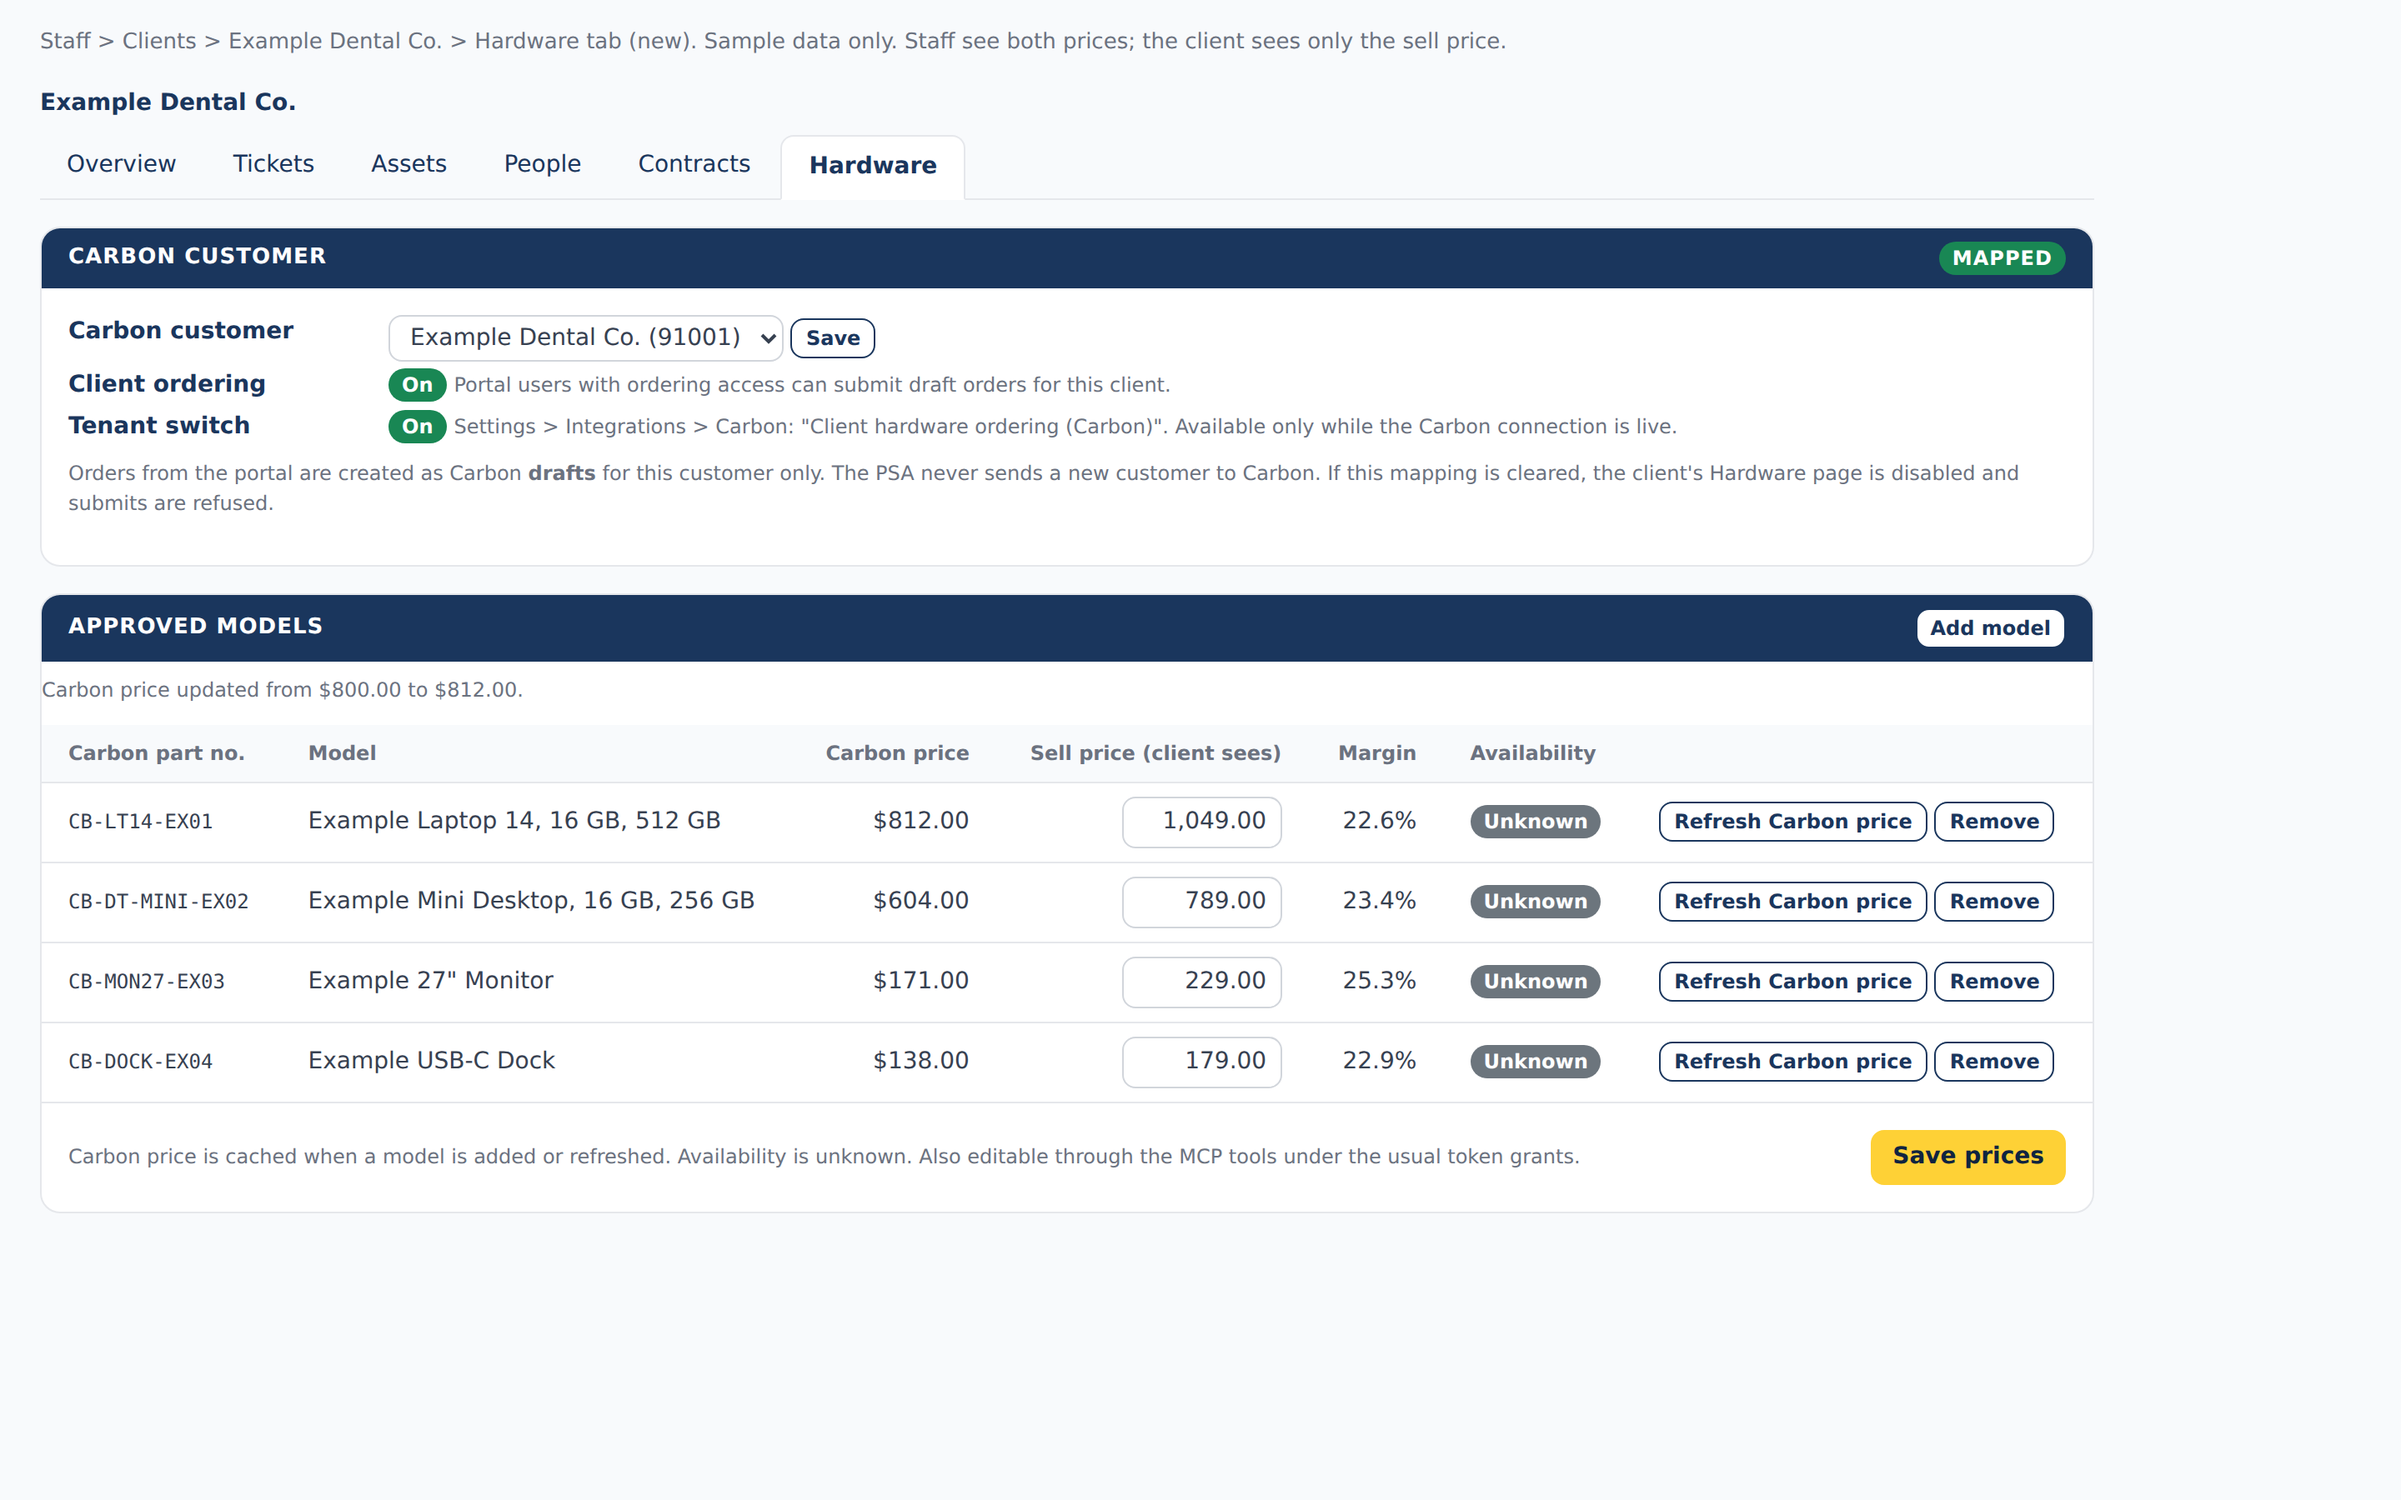
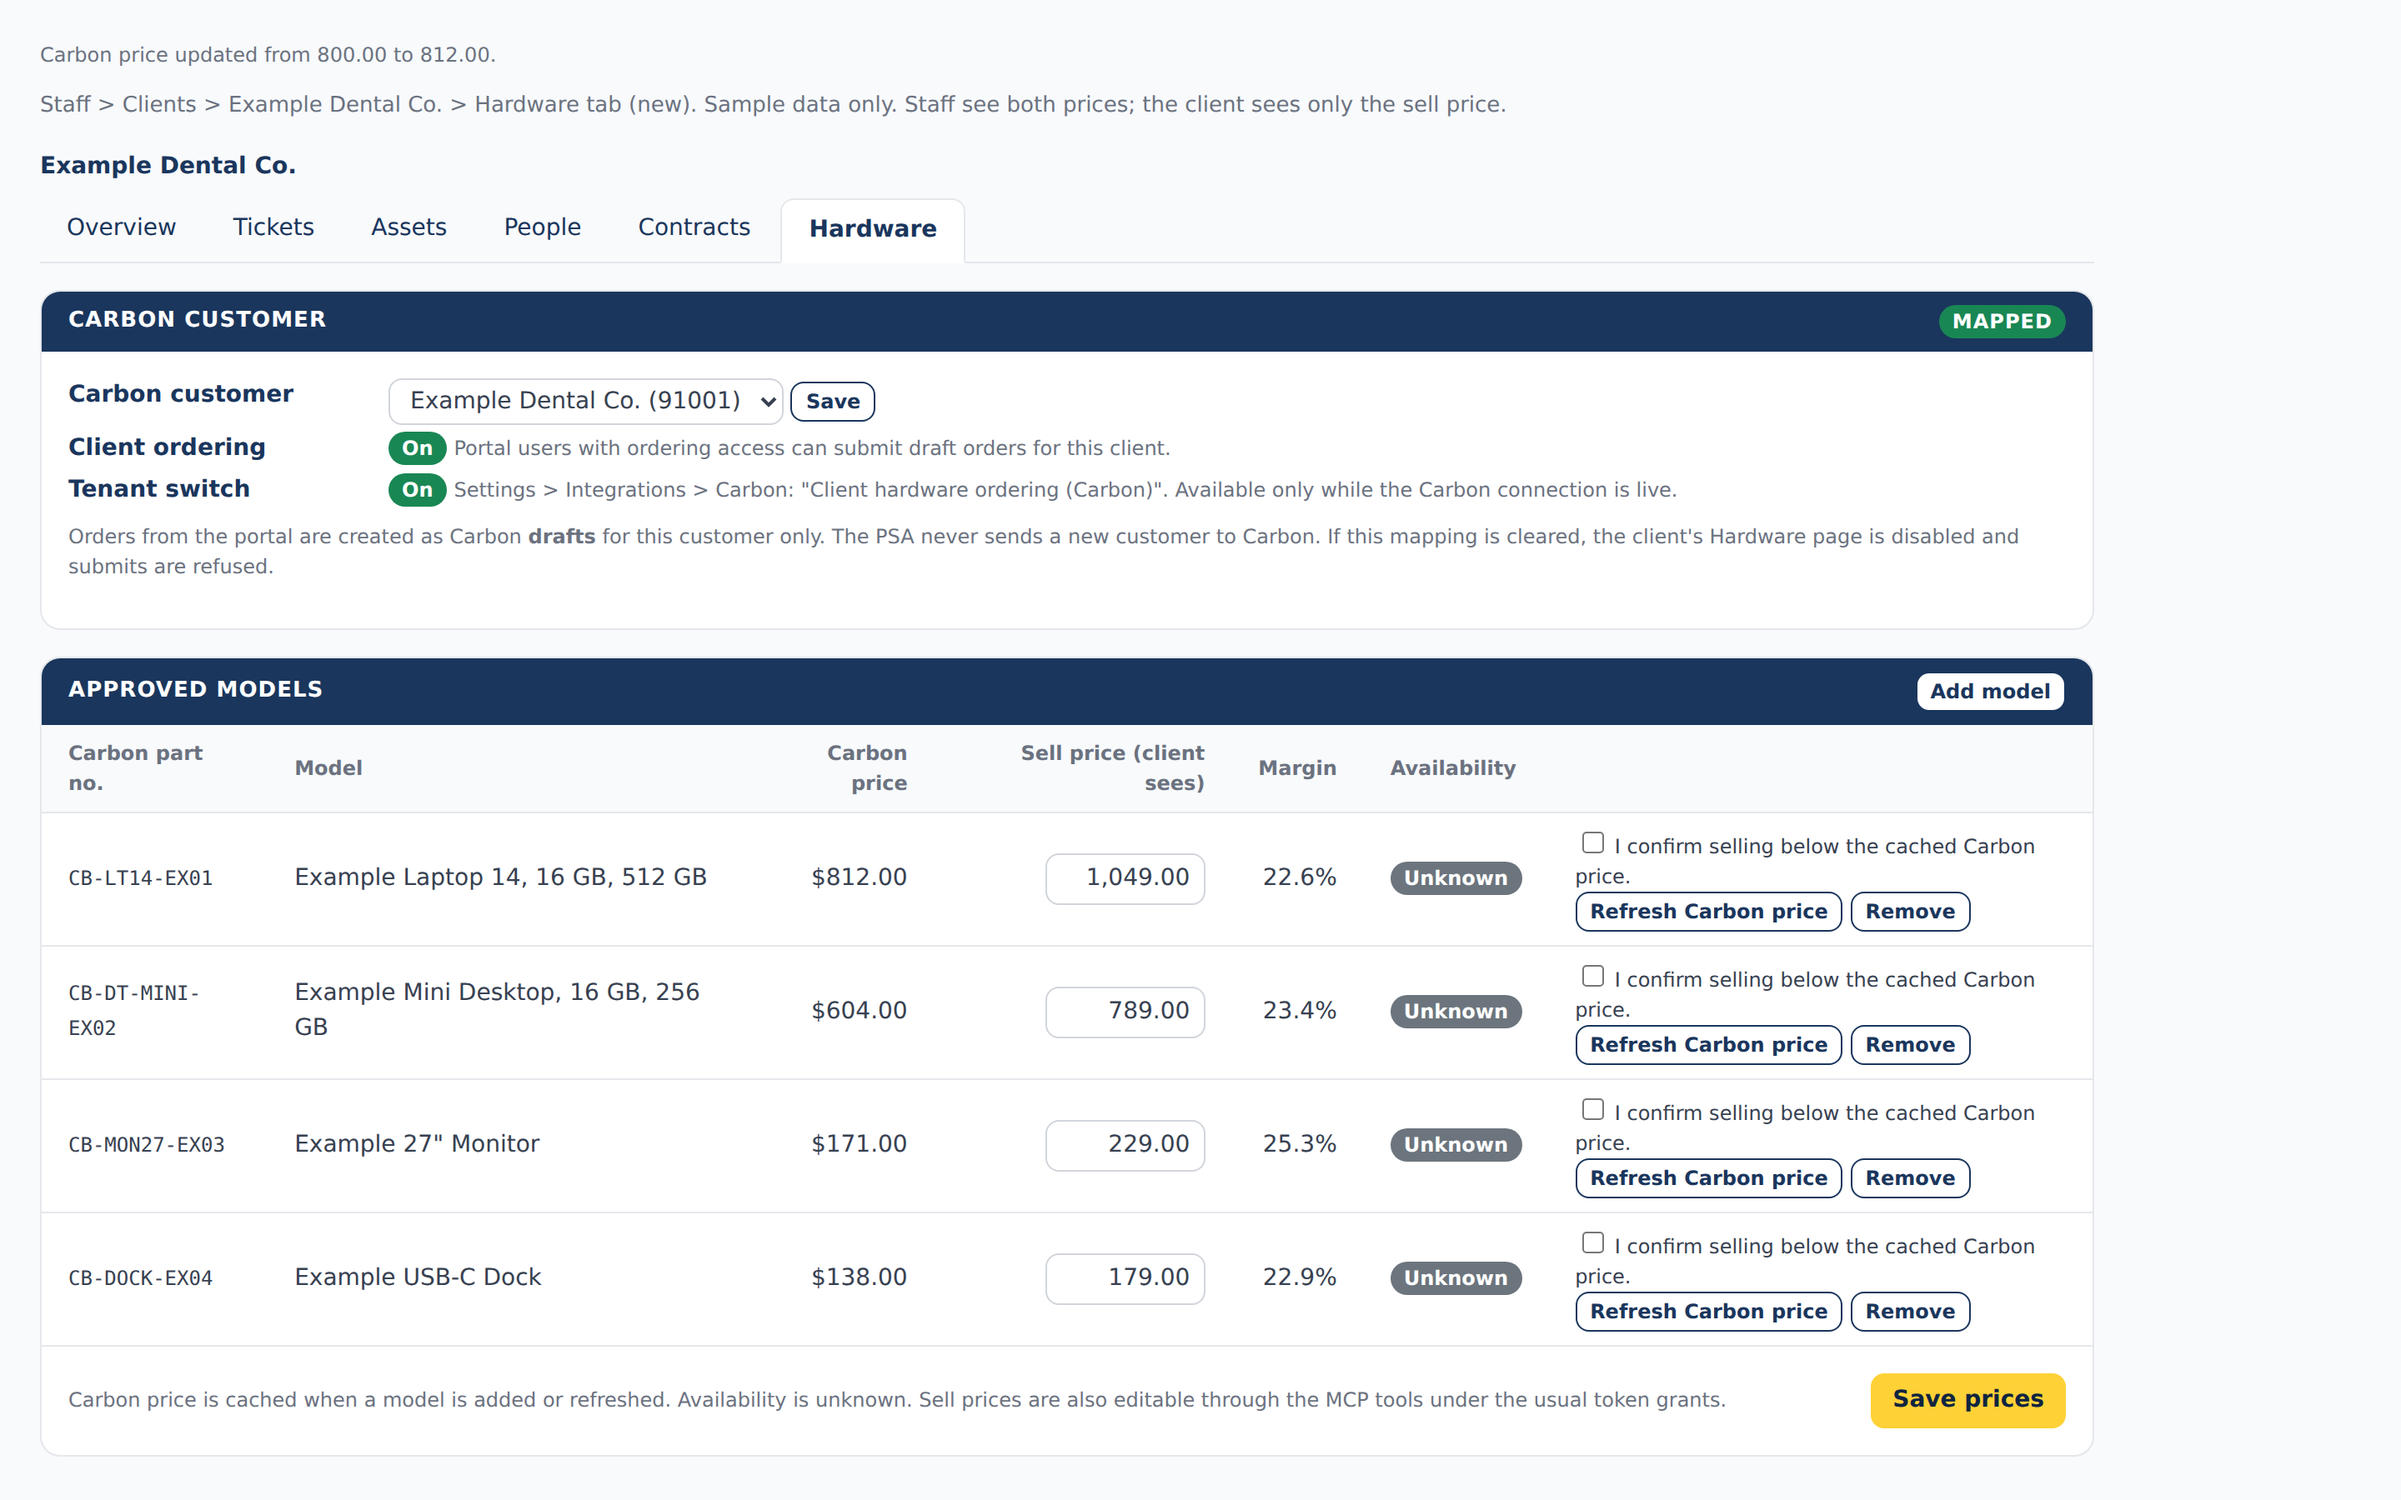
design(carbon): align refresh confirmation and alert mockup
Claim-Seat: auden-vm102-idep-refresh-r1

diff --git a/design/mockups/hardware/staff-approved-list.html b/design/mockups/hardware/staff-approved-list.html
@@ -2,6 +2,7 @@
 <html lang="en"><head><meta charset="utf-8"><title>Client hardware: approved list and Carbon customer (staff)</title>
 <link rel="stylesheet" href="../_tokens.css"><link rel="stylesheet" href="_hw.css"></head>
 <body><main>
+<p class="note" role="status">Carbon price updated from 800.00 to 812.00.</p>
 <p class="caption">Staff &gt; Clients &gt; Example Dental Co. &gt; Hardware tab (new). Sample data only. Staff see both prices; the client sees only the sell price.</p>
 <h4>Example Dental Co.</h4>
 <div class="tabs"><span>Overview</span><span>Tickets</span><span>Assets</span><span>People</span><span>Contracts</span><span class="on">Hardware</span></div>
@@ -17,17 +18,16 @@
 </div></div>
 
 <div class="card"><div class="card-header"><span>Approved models</span><button class="btn btn-sm" type="button" style="background:var(--psa-colors-surface)">Add model</button></div>
-<p class="note" role="status">Carbon price updated from $800.00 to $812.00.</p>
 <table>
 <thead><tr><th>Carbon part no.</th><th>Model</th><th class="num">Carbon price</th><th class="num">Sell price (client sees)</th><th class="num">Margin</th><th>Availability</th><th></th></tr></thead>
 <tbody>
-<tr><td><code>CB-LT14-EX01</code></td><td>Example Laptop 14, 16 GB, 512 GB</td><td class="num">$812.00</td><td class="num"><input class="qty" style="width:96px" value="1,049.00"></td><td class="num">22.6%</td><td><span class="badge b-off">Unknown</span></td><td><button class="btn btn-sm" type="button">Refresh Carbon price</button> <button class="btn btn-sm" type="button">Remove</button></td></tr>
-<tr><td><code>CB-DT-MINI-EX02</code></td><td>Example Mini Desktop, 16 GB, 256 GB</td><td class="num">$604.00</td><td class="num"><input class="qty" style="width:96px" value="789.00"></td><td class="num">23.4%</td><td><span class="badge b-off">Unknown</span></td><td><button class="btn btn-sm" type="button">Refresh Carbon price</button> <button class="btn btn-sm" type="button">Remove</button></td></tr>
-<tr><td><code>CB-MON27-EX03</code></td><td>Example 27" Monitor</td><td class="num">$171.00</td><td class="num"><input class="qty" style="width:96px" value="229.00"></td><td class="num">25.3%</td><td><span class="badge b-off">Unknown</span></td><td><button class="btn btn-sm" type="button">Refresh Carbon price</button> <button class="btn btn-sm" type="button">Remove</button></td></tr>
-<tr><td><code>CB-DOCK-EX04</code></td><td>Example USB-C Dock</td><td class="num">$138.00</td><td class="num"><input class="qty" style="width:96px" value="179.00"></td><td class="num">22.9%</td><td><span class="badge b-off">Unknown</span></td><td><button class="btn btn-sm" type="button">Refresh Carbon price</button> <button class="btn btn-sm" type="button">Remove</button></td></tr>
+<tr><td><code>CB-LT14-EX01</code></td><td>Example Laptop 14, 16 GB, 512 GB</td><td class="num">$812.00</td><td class="num"><input class="qty" style="width:96px" value="1,049.00"></td><td class="num">22.6%</td><td><span class="badge b-off">Unknown</span></td><td><label class="small" style="display:block"><input type="checkbox"> I confirm selling below the cached Carbon price.</label><button class="btn btn-sm" type="button">Refresh Carbon price</button> <button class="btn btn-sm" type="button">Remove</button></td></tr>
+<tr><td><code>CB-DT-MINI-EX02</code></td><td>Example Mini Desktop, 16 GB, 256 GB</td><td class="num">$604.00</td><td class="num"><input class="qty" style="width:96px" value="789.00"></td><td class="num">23.4%</td><td><span class="badge b-off">Unknown</span></td><td><label class="small" style="display:block"><input type="checkbox"> I confirm selling below the cached Carbon price.</label><button class="btn btn-sm" type="button">Refresh Carbon price</button> <button class="btn btn-sm" type="button">Remove</button></td></tr>
+<tr><td><code>CB-MON27-EX03</code></td><td>Example 27" Monitor</td><td class="num">$171.00</td><td class="num"><input class="qty" style="width:96px" value="229.00"></td><td class="num">25.3%</td><td><span class="badge b-off">Unknown</span></td><td><label class="small" style="display:block"><input type="checkbox"> I confirm selling below the cached Carbon price.</label><button class="btn btn-sm" type="button">Refresh Carbon price</button> <button class="btn btn-sm" type="button">Remove</button></td></tr>
+<tr><td><code>CB-DOCK-EX04</code></td><td>Example USB-C Dock</td><td class="num">$138.00</td><td class="num"><input class="qty" style="width:96px" value="179.00"></td><td class="num">22.9%</td><td><span class="badge b-off">Unknown</span></td><td><label class="small" style="display:block"><input type="checkbox"> I confirm selling below the cached Carbon price.</label><button class="btn btn-sm" type="button">Refresh Carbon price</button> <button class="btn btn-sm" type="button">Remove</button></td></tr>
 </tbody></table>
 <div class="card-body" style="display:flex;justify-content:space-between;align-items:center">
-<span class="note" style="margin:0">Carbon price is cached when a model is added or refreshed. Availability is unknown. Also editable through the MCP tools under the usual token grants.</span>
+<span class="note" style="margin:0">Carbon price is cached when a model is added or refreshed. Availability is unknown. Sell prices are also editable through the MCP tools under the usual token grants.</span>
 <button class="btn btn-primary" type="button">Save prices</button></div>
 </div>
 </main></body></html>
